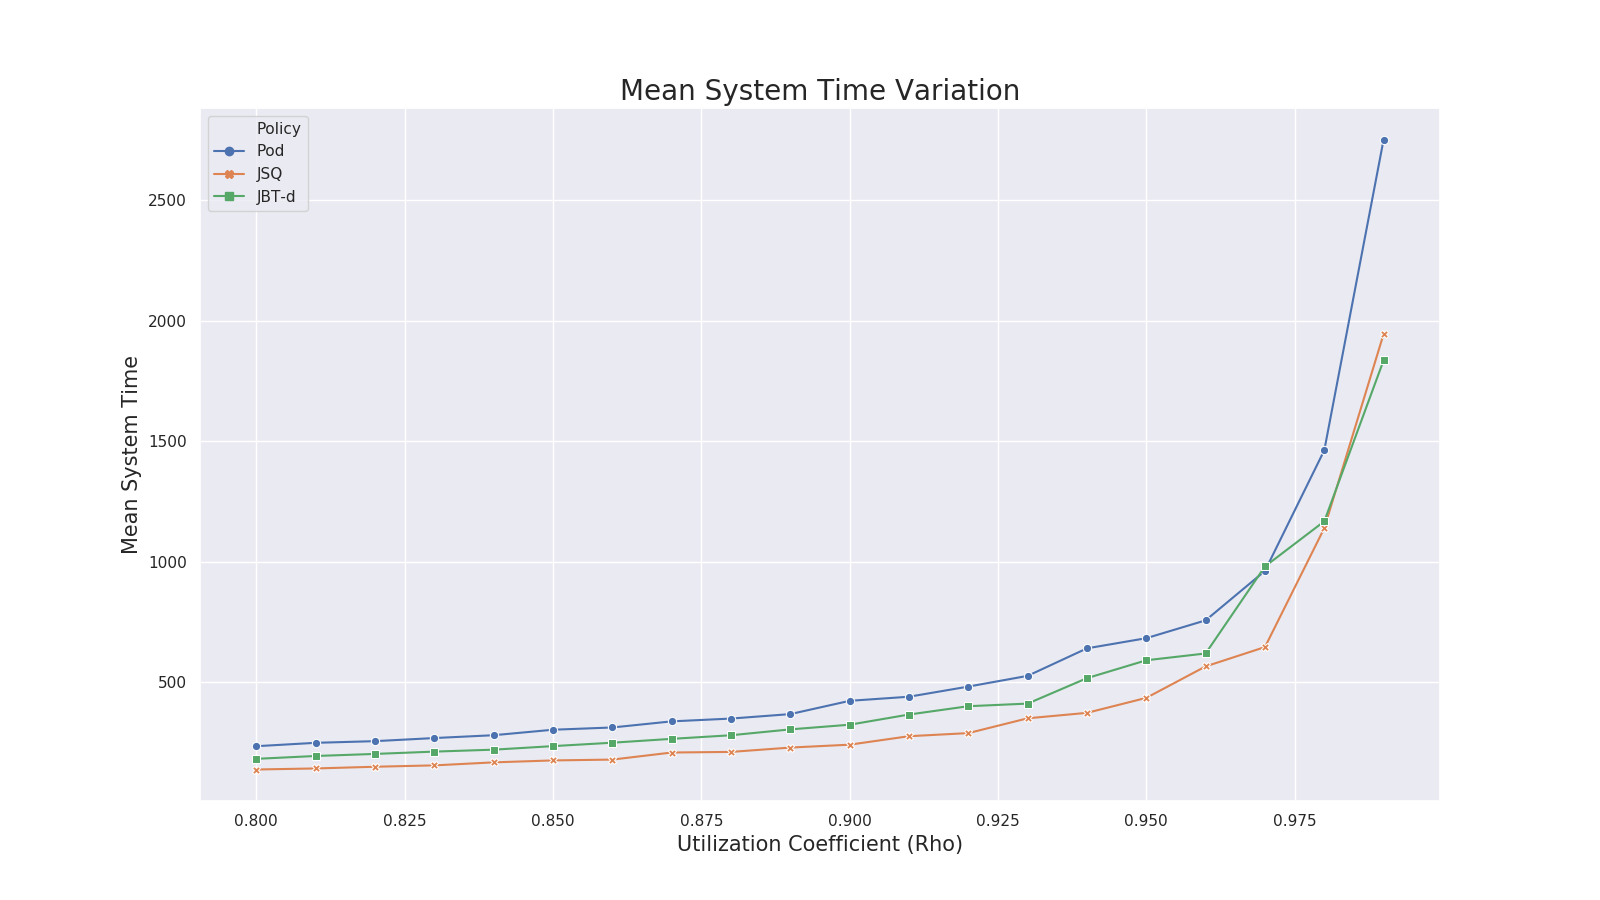
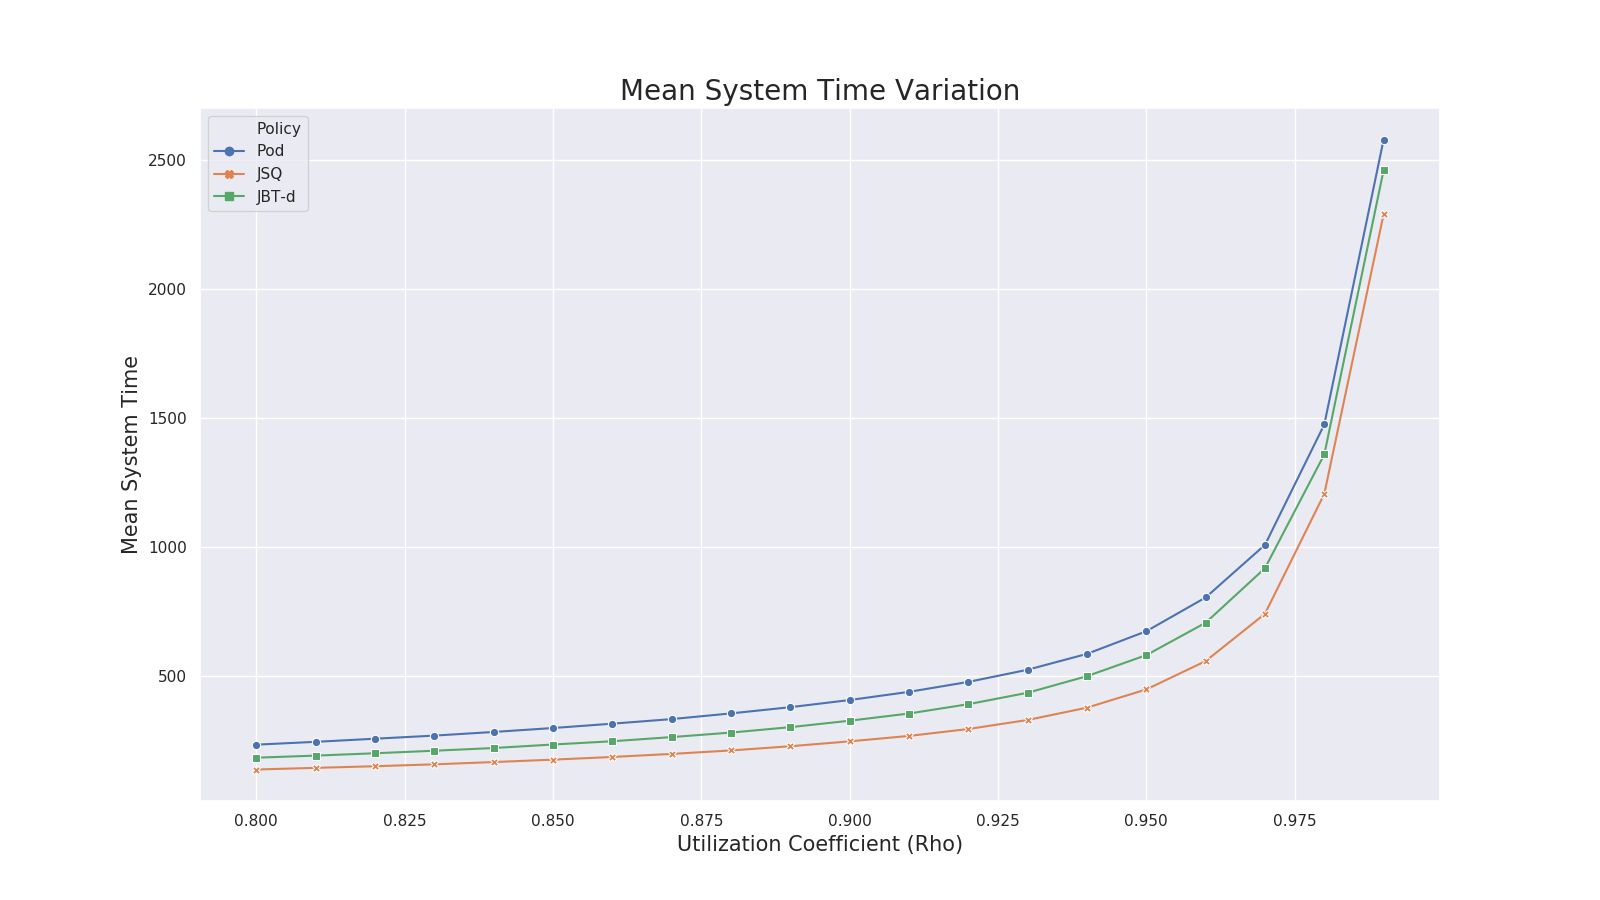
Fix task generation with random seed

diff --git a/Dispatcher.py b/Dispatcher.py
@@ -7,8 +7,6 @@ import matplotlib.pyplot as plt
 
 class Dispatcher:
 
-    random.seed(1234)
-
     q = 3/5
     y = 10
     t_0 = 1
@@ -49,9 +47,9 @@ class Dispatcher:
         beta = rho*self.number_of_servers*exp_t/den
         return beta
 
-    def generate_tasks_timeline(self, number_of_tasks: int):
+    def generate_tasks_timeline(self):
         prev = 0
-        for _ in range(number_of_tasks):
+        for _ in range(self.number_of_tasks):
             r1 = random.uniform(0, 1)
             if r1 <= self.q:
                 self.interval_times.append(self.t_0)
@@ -62,6 +60,17 @@ class Dispatcher:
                 self.interval_times.append(task)
                 prev += task
             self.tasks_timeline.append(round(prev))
+
+    def generate_task(self):
+        r3 = random.uniform(0, 1)
+        task = max(1, min(100*self.beta*2,
+                          round(self.beta*(-math.log(r3))**(1/self.alpha))))
+        return task
+
+    def generate_tasks(self):
+        for _ in range(self.number_of_tasks):
+            task = self.generate_task()
+            self.process_times.append(task)
 
     def pick_random_servers(self, server_ids, n_servers):
         ids = random.sample(server_ids, n_servers)
@@ -108,15 +117,7 @@ class Dispatcher:
 
         return best_server
 
-    def generate_task(self):
-        r3 = random.uniform(0, 1)
-        task = max(1, min(100*self.beta*2,
-                          round(self.beta*(-math.log(r3))**(1/self.alpha))))
-        return task
-
-    def assign_task(self, time, server_id, task=None):
-        if task == None:
-            task = self.generate_task()
+    def assign_task(self, task, time, server_id):
 
         self.process_times.append(task)
         try:
@@ -138,7 +139,9 @@ class Dispatcher:
         threshold = float("+inf")
         servers_below_threshold = []
 
-        for time in self.tasks_timeline:
+        for i in range(self.number_of_tasks):
+            time = self.tasks_timeline[i]
+            task = self.process_times[i]
             # if t units of time passed, update the threshold,
             # update the list of servers below threshold
             # and use the server with lower threshold to assign the task
@@ -170,7 +173,7 @@ class Dispatcher:
                 else:
                     server_id = random.sample(list(self.servers.keys()), 1)[0]
 
-            self.assign_task(time, server_id)
+            self.assign_task(task, time, server_id)
 
             for id in self.servers:
                 if id not in servers_below_threshold:
@@ -187,10 +190,11 @@ class Dispatcher:
         sl = (-math.exp(0.2)*(self.beta**self.alpha))**(1/self.alpha)
         sm1 = (-math.exp(0.4)*(self.beta**self.alpha))**(1/self.alpha)
         sm2 = (-math.exp(0.6)*(self.beta**self.alpha))**(1/self.alpha)
-        su = (-math.exp(0.8)*(self.beta**self.alpha))**(1/self.alpha)
+        # su = (-math.exp(0.8)*(self.beta**self.alpha))**(1/self.alpha)
 
-        for time in self.tasks_timeline:
-            task = self.generate_task()
+        for i in range(self.number_of_tasks):
+            time = self.tasks_timeline[i]
+            task = self.process_times[i]
             if task < sl:
                 n_servers = len(servers)//4
                 server = self.pick_best_server_custom(servers, n_servers, time)
@@ -206,7 +210,7 @@ class Dispatcher:
                     servers, len(servers), time)
 
             self.overhead += n_servers*2
-            self.assign_task(time, server, task)
+            self.assign_task(task, time, server)
 
         self.overhead /= self.number_of_tasks
 
@@ -233,7 +237,9 @@ class Dispatcher:
         print("Starting simulation for rho = " + str(self.rho))
         print()
 
-        self.generate_tasks_timeline(self.number_of_tasks)
+        random.seed(1)
+        self.generate_tasks_timeline()
+        self.generate_tasks()
 
         if self.jbt:
             self.process_tasks_jbt()
@@ -242,10 +248,12 @@ class Dispatcher:
             self.process_custom()
 
         else:
-            for time in self.tasks_timeline:
+            for i in range(self.number_of_tasks):
+                time = self.tasks_timeline[i]
+                task = self.process_times[i]
                 server_id = self.pick_best_server(
                     list(self.servers.keys()), self.d, time)
-                self.assign_task(time, server_id)
+                self.assign_task(task, time, server_id)
             self.compute_overhead()
 
         to_remove = int(self.number_of_tasks*0.1)

diff --git a/main.py b/main.py
@@ -13,7 +13,7 @@ rho_values = np.arange(0.8, 1., 0.01)
 multiple_sim = True
 n_sim = 20
 n_proc = mp.cpu_count()
-custom = True
+custom = False
 
 
 def perform_multiple_simulations(simulator, jbt=False, custom=False):
